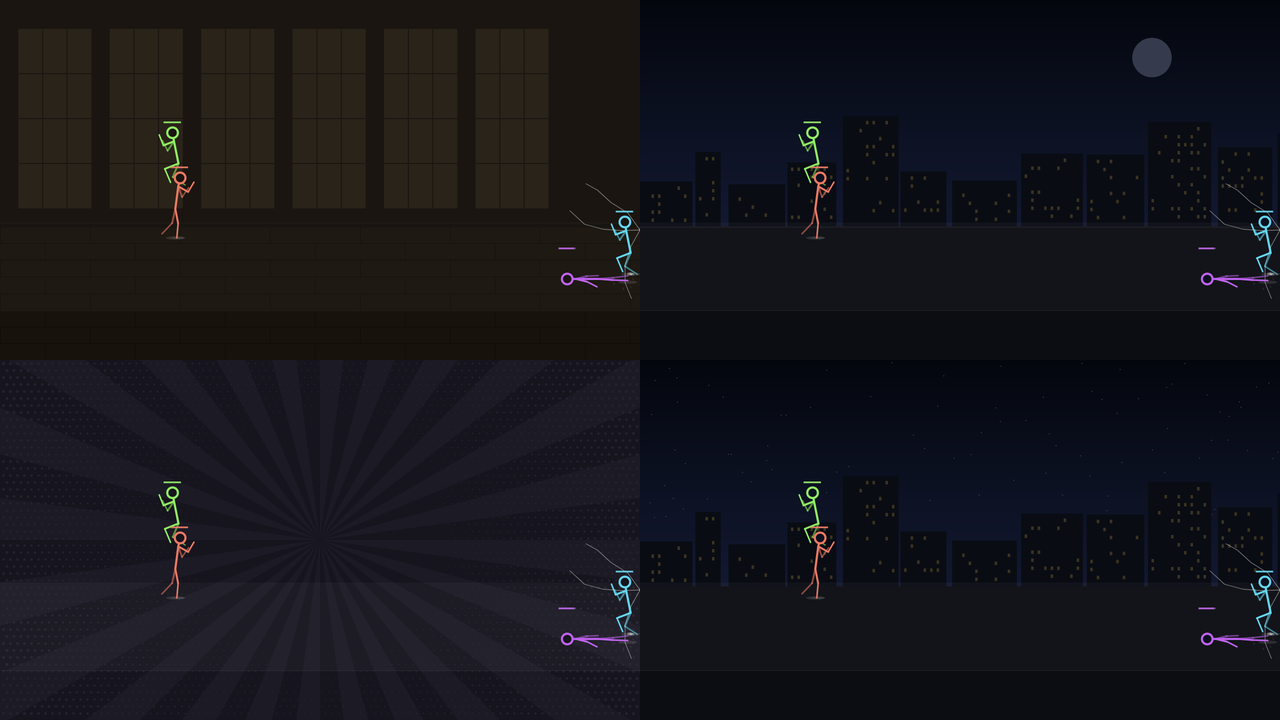
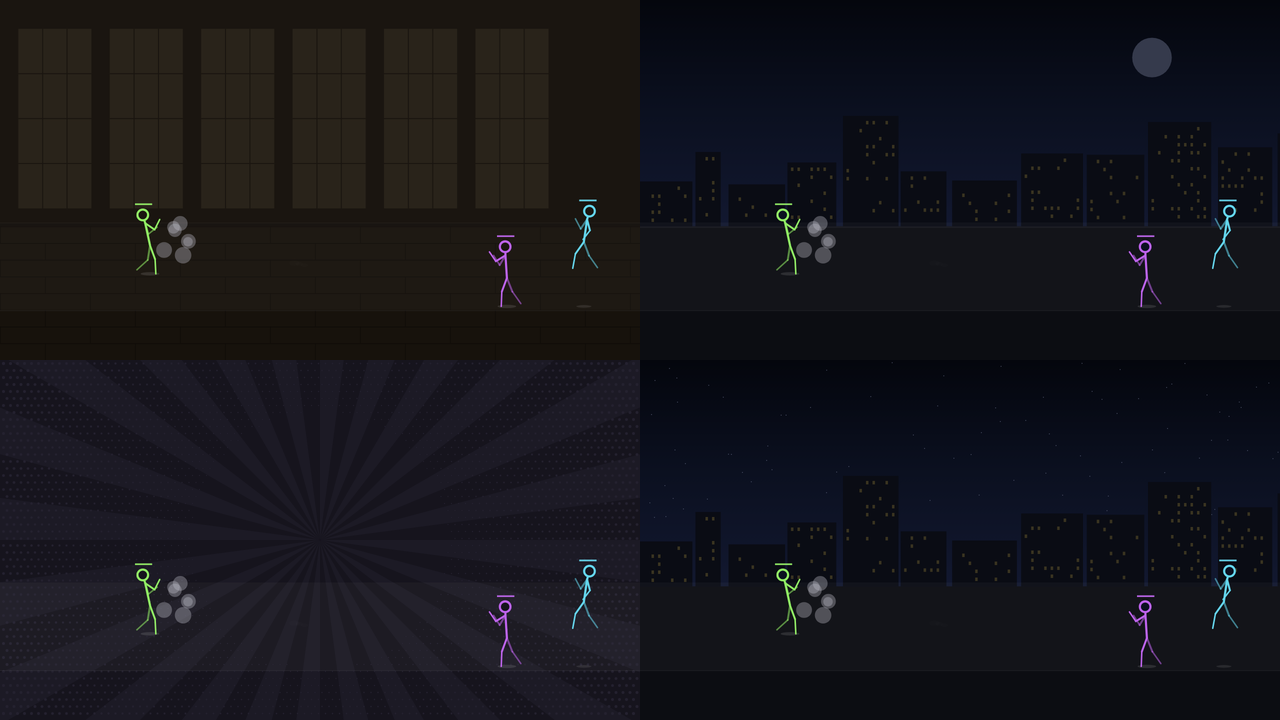
feat: standoffs that circle at arm's length, then rush in (#491)
* feat: standoffs that circle at arm's length, then rush in

* fix: keep a fighter getting up inside the walls on resize, and re-record the pictures

A body lying or getting up reaches past its x, and resize() only clamped
x, so a paused frame after a narrower resize could draw its head past the
wall; it now brings the body inside as each step does (inWalls).

The fight a seed gives changed: demo.gif is recorded from seed 9, whose
scan shows all eight styles (and a clash and a parry), and all twenty
pictures in docs/images/ again. reduce-motion-off moves to seed 4 and
items to seed 1, which show the flash and the boomerang picked up.

* fix: put the meeting chance's comment back on it

---------

diff --git a/wallpaper/main.js b/wallpaper/main.js
@@ -421,6 +421,9 @@ function resize() {
     if (wall > 0 && oldW > 0) f.x += worldW - oldW;
     else if (ladder && oldW > 0 && !wall && f.state !== 'wait' && !f.rag) f.x *= worldW / oldW;
     f.x = clamp(f.x, 14, worldW - 14);
+    // A body lying or getting up reaches past its x: brought whole inside the walls, as each
+    // step does (update()), so a paused frame does not draw its head past a narrower wall
+    if (LYING.has(f.state)) f.inWalls();
     // A thrown fighter is drawn along the throw's path, so that moves the same way (issue #388)
     if (f.state === 'thrown' && f.th) {
       for (const k of ['hx0', 'hx1', 'hx']) f.th[k] = clamp(ladder && oldW > 0 ? f.th[k] * worldW / oldW : f.th[k], 14, worldW - 14);
@@ -522,7 +525,7 @@ function slowmoView(ox, oy) {
   view = { z, x: ox * z + cx * (1 - z), y: oy * z + cy * (1 - z) };
   ctx.setTransform(dpr * S * z, 0, 0, dpr * S * z, view.x * dpr, view.y * dpr);
 }
-const stats = { att: {}, hits: {}, whiff: 0, blocked: 0, shielded: 0, subs: 0, ko: 0, rounds: 0, throws: 0, launches: 0, combos: 0, splats: 0, clashes: 0, parries: 0, counters: 0, sfx: {} };
+const stats = { att: {}, hits: {}, whiff: 0, blocked: 0, shielded: 0, subs: 0, ko: 0, rounds: 0, throws: 0, launches: 0, combos: 0, splats: 0, clashes: 0, parries: 0, counters: 0, standoffs: 0, sfx: {} };
 window.__stickmanBrawl = { stats, cfg, MOVES, SUPER, MAGIC, NINJA, shots, fx, sfx, soundSetVolume, soundSetPaused, checkRound, update, pickMove, pickTarget,
   render: () => render(),
   get fighters() { return fighters; } };
@@ -634,6 +637,9 @@ function clash(a, b, Ha, Hb) {
 // warned of one answers it with its own (warn, MEET_CHANCE)
 const CLASH_DIST = 16, CLASH_STAGGER = 0.3, PARRY_CHANCE = 0.35, PARRY_STAGGER = 0.4;
 const MEET_CHANCE = 0.25;   // Share of martial-arts strikes an enemy warned of meets with a strike of its own (warn)
+// Spacing: the chance a second, while a fighter waits with its target in reach, that it backs
+// off into a standoff; how far from the target's depth it circles; the speed of the rush in
+const STANDOFF_RATE = 0.7, STANDOFF_DZ = 18, RUSH_SPEED = 520;
 // A cloud of smoke: a few grey balls that swell and fade
 function puff(x, y, size) {
   const balls = [];
@@ -1098,6 +1104,7 @@ class Fighter {
     this.smear = [];   // Where a strike's lead limb was over its last SMEAR_AGE seconds (updSmear)
     this.subFrom = null; this.subT = 0;   // A substitution readied against this attacker, for subT seconds
     this.reachT = 0;                      // Seconds the queued move has been out of reach
+    this.standoff = 0; this.standoffD = 0; this.circle = 1;   // Spacing: seconds left, distance held, way round in depth
     this.V = null; this.resetLook();      // The drawn joints, and the spring offset they are drawn with
   }
   get alive() { return this.state !== 'ko'; }
@@ -1392,8 +1399,22 @@ class Fighter {
       this.nextMove = withStaff(this, this.nextMove);
       const m = this.nextMove, dx = t.x - this.x, dist = Math.abs(dx), dz = t.z - this.z;
       if (dist > 1) this.facing = sgn(dx);
+      // Spacing: now and then, waiting with the target in reach of a martial-arts strike, back
+      // off to hold it just out of reach, circling in depth, then rush in and strike (standoff).
+      // Not with a throw queued, which closes in to grab
+      if (this.standoff <= 0 && this.cool > 0 && t.hittable && !m.type && !m.grab && dist <= m.range[1] + 40 &&
+        Math.random() < dt * STANDOFF_RATE) {
+        this.standoff = rand(0.6, 1.4); this.standoffD = m.range[1] + rand(35, 70);
+        this.circle = Math.random() < 0.5 ? 1 : -1; stats.standoffs++;
+      }
+      if (this.standoff > 0 && (!t.hittable || m.type || m.grab)) this.standoff = 0;
       let dir;
       if (!t.hittable) dir = dist < 60 ? -1 : dist > 90 ? 1 : 0;
+      else if (this.standoff > 0) {
+        dir = dist < this.standoffD - 8 ? -1 : dist > this.standoffD + 8 ? 1 : Math.sin(this.time * 2.3 + this.id) * 0.35;
+        this.standoff -= dt;
+        if (this.standoff <= 0) this.rush(m, dist);
+      }
       else if (dist > m.range[1] - 2) dir = 1;
       else if (dist < m.range[0] + 2) dir = -1;
       else dir = Math.sin(this.time * 2.3 + this.id) * 0.35;   // Footwork shuffle
@@ -1408,11 +1429,18 @@ class Fighter {
       // (#421), is waited out for as long, then replaced too (#459)
       const unfit = m.type && !specialFits(this, m, t);
       this.reachT = t.hittable && (dist < m.range[0] || dist > m.range[1] || unfit) ? this.reachT + dt : 0;
+      if (this.standoff > 0) this.reachT = 0;   // Out of reach on purpose
       if (pinned || this.reachT > 1.5) { this.nextMove = pickMove(this, t, dist); this.reachT = 0; }
-      if (pinned) dir = 0;   // A wall stops it anyway; a ledge end does not
+      if (pinned) { dir = 0; this.standoff = 0; }   // A wall stops it anyway; a ledge end does not
       if (this.evade <= 0 && this.dash <= 0) {
         this.vx = approach(this.vx, dir * this.facing * 110, 600 * dt);
-        this.vz = approach(this.vz, clamp(dz * 4, -45, 45), 300 * dt);
+        // Circling while spacing: round the target in depth, turning back at STANDOFF_DZ from its
+        // depth or at the front and back of the floor. Not on a ledge, whose top is a height on
+        // screen, so a step in depth would step off it
+        if (this.standoff > 0 && !ledge) {
+          if ((this.z - t.z) * this.circle > STANDOFF_DZ || this.z + this.circle * 6 < 0 || this.z + this.circle * 6 > DEPTH) this.circle = -this.circle;
+          this.vz = approach(this.vz, this.circle * 40, 300 * dt);
+        } else this.vz = approach(this.vz, clamp(dz * 4, -45, 45), 300 * dt);
         // Dash when far away
         if (dir > 0 && dist > 200 && Math.random() < dt * 0.9) {
           this.vx = this.facing * 520; this.dash = 0.22; this.trailOn = true;
@@ -1430,7 +1458,7 @@ class Fighter {
         return;
       }
       const altOK = m.type ? specialFits(this, m, t) : Math.abs(t.alt - this.alt) < 35;
-      if (this.cool <= 0 && t.hittable && altOK && dist >= m.range[0] && dist <= m.range[1] && Math.abs(dz) < 9) {
+      if (this.cool <= 0 && this.standoff <= 0 && t.hittable && altOK && dist >= m.range[0] && dist <= m.range[1] && Math.abs(dz) < 9) {
         // Walking to an item turns the fighter away; every move starts facing the target
         if (dist > 1) this.facing = sgn(dx);
         this.startMove(m);
@@ -1443,6 +1471,16 @@ class Fighter {
     const b = Math.sin(this.time * 7 + this.id);
     tp.kF += b * 0.07; tp.kB += b * 0.07; tp.t += b * 0.02;
     lerpPose(this.pose, tp, Math.min(1, dt * 14), this.pose);
+  }
+
+  // The end of a standoff: a short dash that stops in the middle of move m's reach, from dist
+  // away, ready to strike at once
+  rush(m, dist) {
+    this.cool = 0;
+    const gap = dist - (m.range[0] + m.range[1]) / 2;
+    if (gap <= 0 || this.evade > 0) return;
+    this.vx = this.facing * RUSH_SPEED; this.dash = Math.min(0.22, gap / RUSH_SPEED); this.trailOn = true;
+    dust(this.x, groundY(this.z) - this.alt, 3, -this.facing);
   }
 
   updAir(dt) {

diff --git a/README.zh-CN.md b/README.zh-CN.md
@@ -10,7 +10,8 @@
 把对手打到撞墙）、魔法（火球、雷击、把对手冻住的冰锥、挡下一击的护盾），以及忍术：
 手里剑、影分身、烟遁，还有留下木头替身挨打的替身术。拳脚打中后可以直接接下一招，
 两到三招连成一套连续技。两招在半空中对撞时双方都会被震开，
-抓准时机的格挡能把攻击拨开并立刻反击。被击倒的一方会变成布娃娃，场上只剩一方时开始新的回合。
+抓准时机的格挡能把攻击拨开并立刻反击。双方也会绕圈、保持一臂之遥对峙，再突然冲上去。
+被击倒的一方会变成布娃娃，场上只剩一方时开始新的回合。
 
 ![六个角色大乱斗](demo.gif)
 

diff --git a/README.zh-TW.md b/README.zh-TW.md
@@ -10,7 +10,8 @@
 把對手打到撞牆）、魔法（火球、雷擊、把對手凍住的冰錐、擋下一擊的護盾），以及忍術：
 手裡劍、影分身、煙遁，還有留下木頭替身挨打的替身術。拳腳打中後可以直接接下一招，
 兩到三招連成一套連續技。兩招在半空中對撞時雙方都會被震開，
-抓準時機的格擋能把攻擊撥開並立刻反擊。被擊倒的一方會變成布娃娃，場上只剩一方時開始新的回合。
+抓準時機的格擋能把攻擊撥開並立刻反擊。雙方也會繞圈、保持一臂之遙對峙，再突然衝上去。
+被擊倒的一方會變成布娃娃，場上只剩一方時開始新的回合。
 
 ![六個角色大亂鬥](demo.gif)
 

diff --git a/README.md b/README.md
@@ -13,7 +13,8 @@ shields that stop a hit) and ninjutsu: shuriken, shadow clones, smoke escapes,
 and a log left behind to take a hit. A punch or kick that lands can run
 straight on into the next, in combos of two or three strikes. Two strikes that
 meet in mid-air knock both fighters back, and a block made in time turns a
-strike aside and hits straight back. A knockout turns
+strike aside and hits straight back. Fighters also circle and hold each other
+at arm's length before rushing in. A knockout turns
 the loser into a ragdoll, and a new round starts when one side is left.
 
 ![Six fighters brawling in free-for-all mode](demo.gif)
